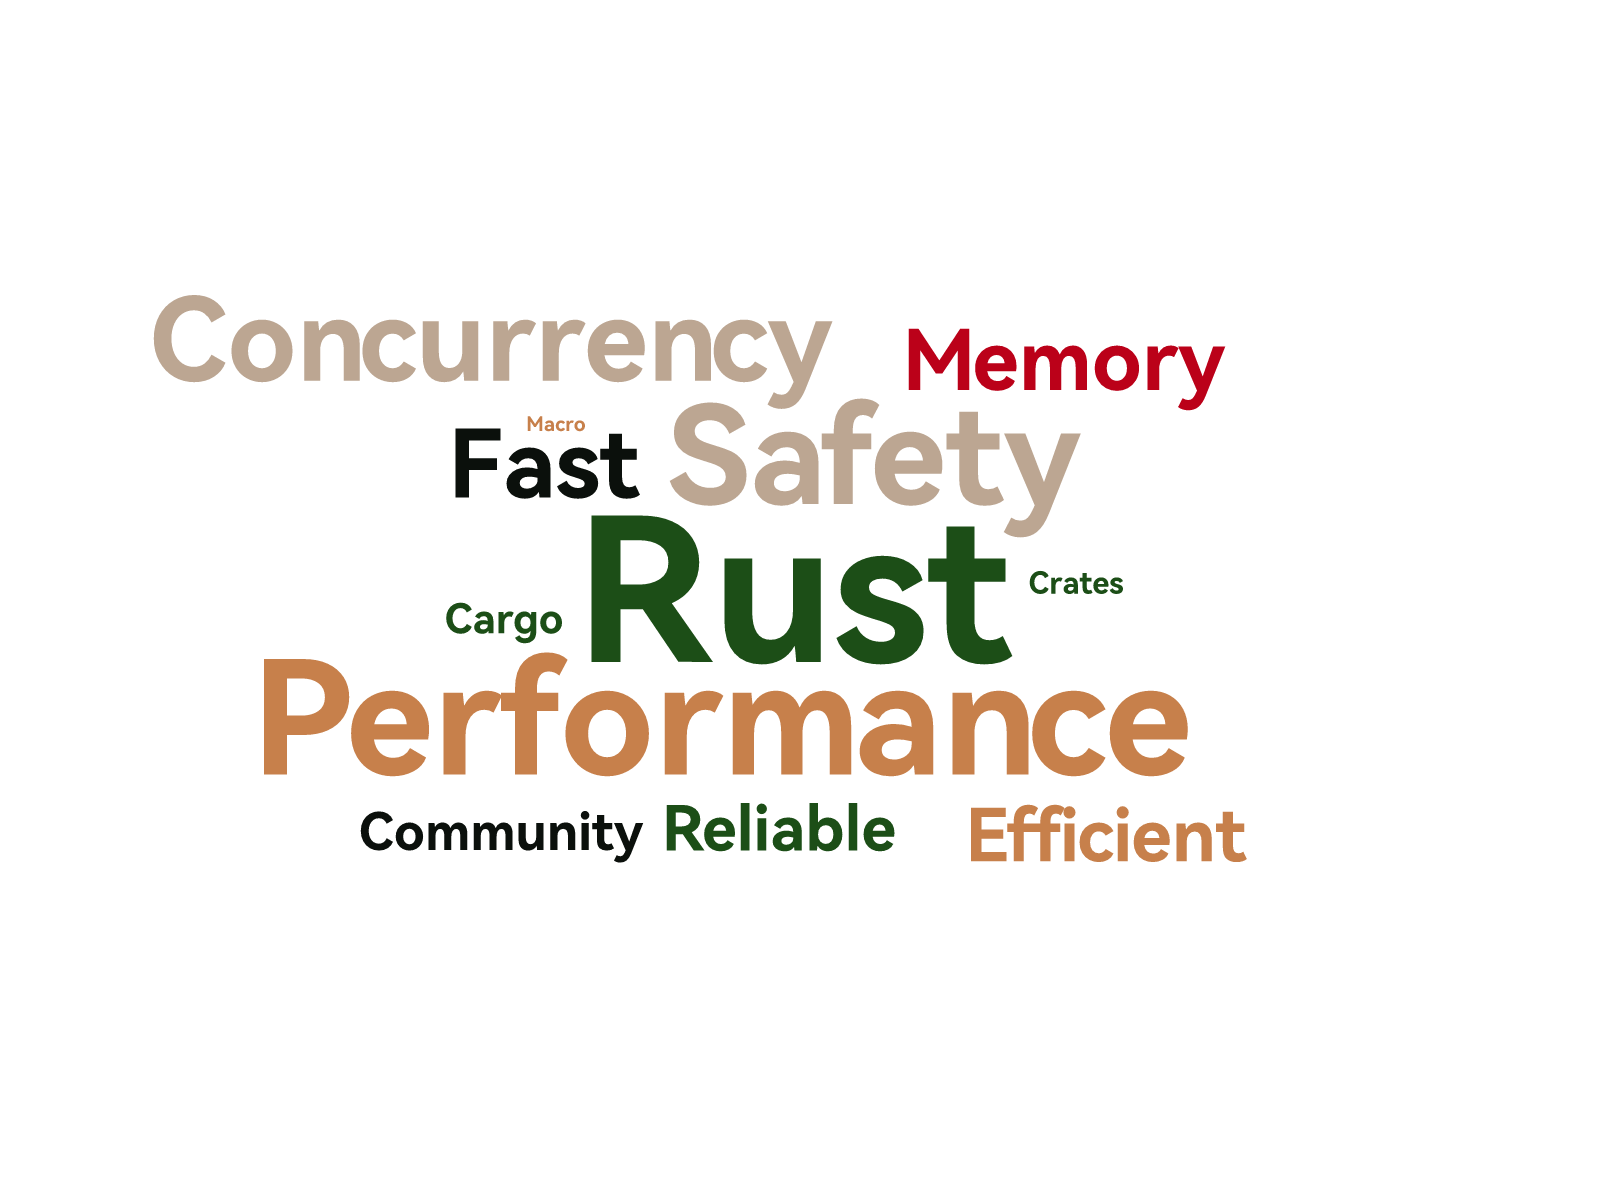
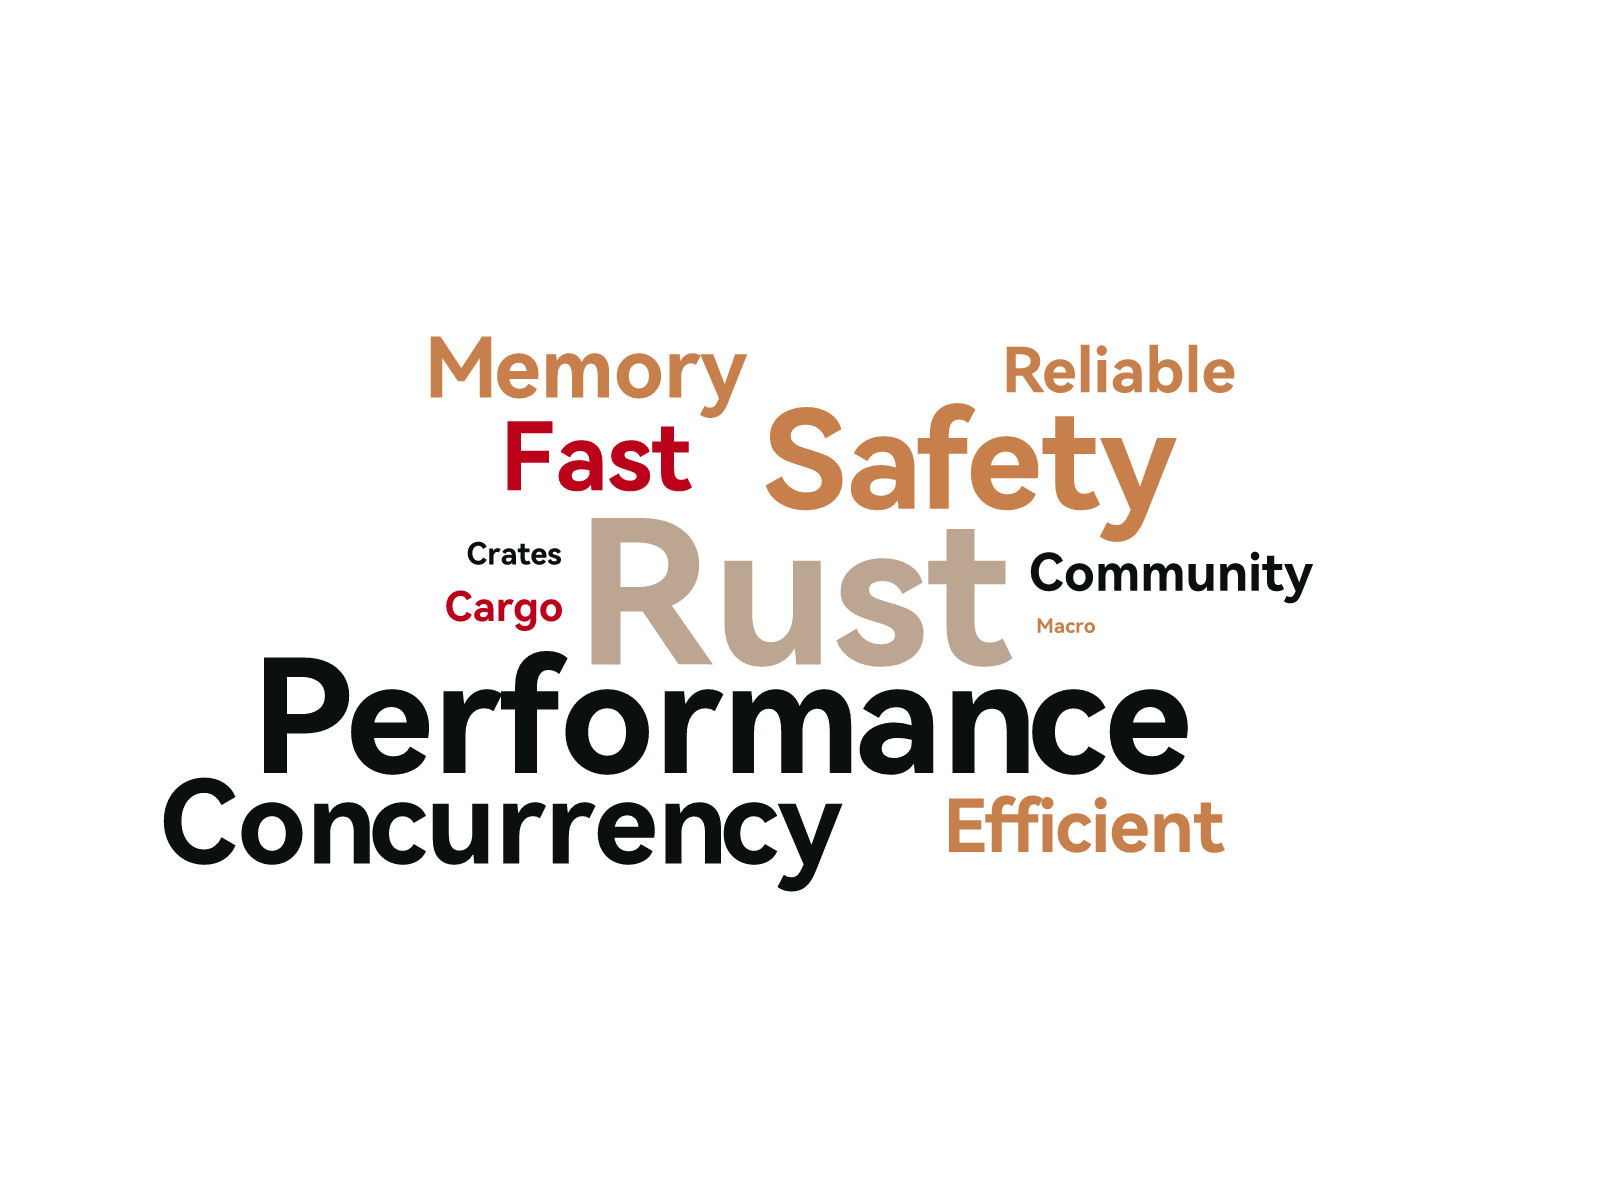
chore: upgrade dependencies to latest stable versions
- rand 0.9 -> 0.10 (use RngExt trait, SysRng instead of removed from_os_rng)
- usvg/resvg 0.45 -> 0.48
- tiny-skia 0.11 -> 0.12
- rand_chacha 0.9 -> 0.10

Changed region(s): [[0.0938, 0.2467, 0.8125, 0.74]]

diff --git a/src/lib.rs b/src/lib.rs
@@ -6,7 +6,7 @@
 
 use fontdue::{Font, FontSettings};
 use image::GenericImageView;
-use rand::{Rng, SeedableRng};
+use rand::{RngExt, SeedableRng};
 use rand_chacha::ChaCha8Rng;
 use std::sync::Arc;
 use thiserror::Error;
@@ -301,7 +301,8 @@ impl WordCloudBuilder {
         // 初始化随机数
         let mut rng = match self.seed {
             Some(s) => ChaCha8Rng::seed_from_u64(s),
-            None => ChaCha8Rng::from_os_rng(),
+            None => ChaCha8Rng::try_from_rng(&mut rand::rngs::SysRng)
+                .expect("failed to initialize RNG from system entropy"),
         };
 
         // 排序单词（权重从大到小）

diff --git a/examples/chinese_dense.rs b/examples/chinese_dense.rs
@@ -1,5 +1,5 @@
 use araea_wordcloud::{WordCloudBuilder, WordInput};
-use rand::Rng;
+use rand::RngExt;
 use std::fs;
 use std::time::Instant;
 

diff --git a/examples/chinese_vertical.rs b/examples/chinese_vertical.rs
@@ -1,5 +1,5 @@
 use araea_wordcloud::{WordCloudBuilder, WordInput};
-use rand::Rng;
+use rand::RngExt;
 use std::fs;
 use std::time::Instant;
 
